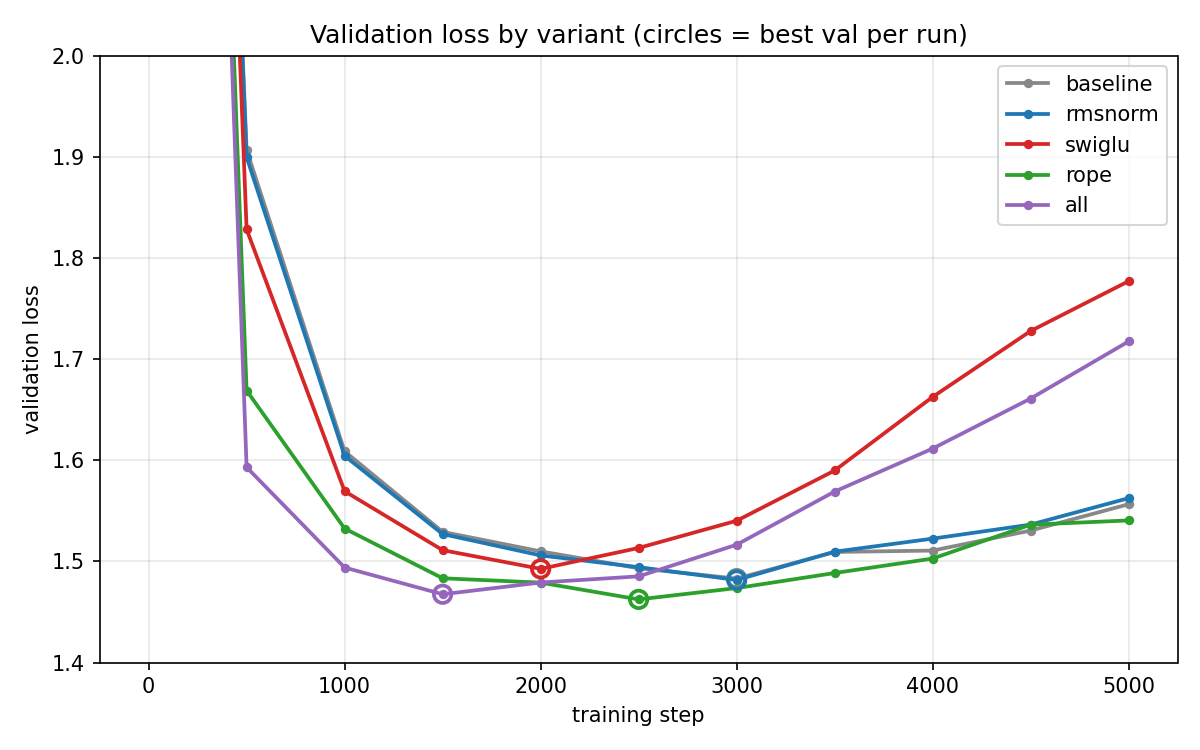
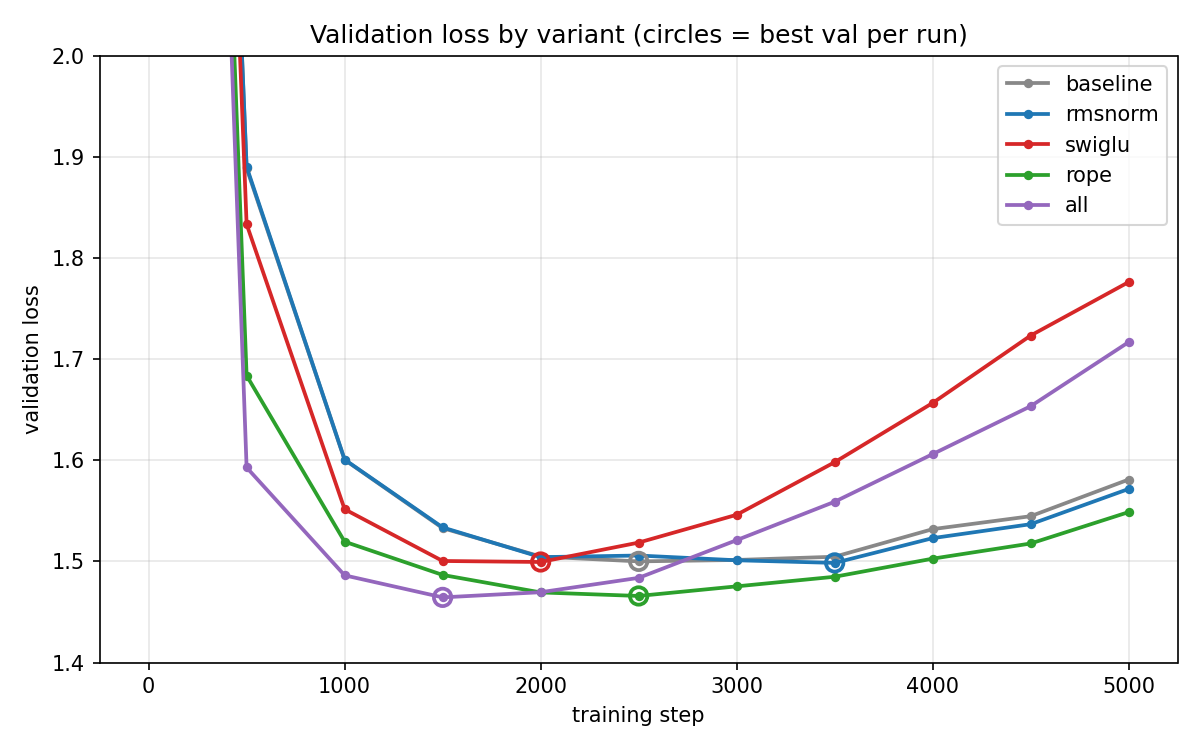
Fixed the bug related to seeding

diff --git a/train_ablations.py b/train_ablations.py
@@ -31,7 +31,7 @@ n_head = 6
 n_layer = 6
 dropout = 0.2
 SEED = 1337
-USE_COMPILE = True   # set False if torch.compile misbehaves on Windows
+USE_COMPILE = False
 RESULTS_FILE = 'results.md'
 # -------------------------------------------------------------------------------
 
@@ -60,22 +60,22 @@ train_data = data[:n]
 val_data = data[n:]
 
 
-def get_batch(split):
+def get_batch(split, g):
     d = train_data if split == 'train' else val_data
-    ix = torch.randint(len(d) - block_size, (batch_size,))
+    ix = torch.randint(len(d) - block_size, (batch_size,), generator=g)
     x = torch.stack([d[i:i + block_size] for i in ix])
     y = torch.stack([d[i + 1:i + block_size + 1] for i in ix])
     return x.to(device), y.to(device)
 
 
 @torch.no_grad()
-def estimate_loss(model):
+def estimate_loss(model, g):
     out = {}
     model.eval()
     for split in ['train', 'val']:
         losses = torch.zeros(eval_iters)
         for k in range(eval_iters):
-            X, Y = get_batch(split)
+            X, Y = get_batch(split, g)
             _, loss = model(X, Y)
             losses[k] = loss.item()
         out[split] = losses.mean().item()
@@ -87,12 +87,11 @@ def estimate_loss(model):
 def precompute_freqs_cis(head_dim, max_seq_len, base=10000.0):
     inv_freq = 1.0 / (base ** (torch.arange(0, head_dim, 2).float() / head_dim))
     t = torch.arange(max_seq_len).float()
-    freqs = torch.outer(t, inv_freq)                    # (T, head_dim/2)
-    return torch.polar(torch.ones_like(freqs), freqs)   # e^{i m theta}, complex64
+    freqs = torch.outer(t, inv_freq)                    
+    return torch.polar(torch.ones_like(freqs), freqs)   
 
 
 def apply_rope(x, freqs_cis):
-    # x: (B, T, head_dim); freqs_cis: (T, head_dim/2)
     xc = torch.view_as_complex(x.float().reshape(*x.shape[:-1], -1, 2))
     out = torch.view_as_real(xc * freqs_cis)
     return out.flatten(-2).type_as(x)
@@ -170,7 +169,7 @@ class FeedForward(nn.Module):
 class SwiGLUFFN(nn.Module):
     def __init__(self, n_embd):
         super().__init__()
-        hidden = int(2 / 3 * 4 * n_embd)  # param-matched to the 4x ReLU FFN
+        hidden = int(2 / 3 * 4 * n_embd)  
         self.w_gate = nn.Linear(n_embd, hidden, bias=False)
         self.w_up = nn.Linear(n_embd, hidden, bias=False)
         self.w_down = nn.Linear(hidden, n_embd, bias=False)
@@ -241,8 +240,9 @@ def log(msg):
 
 
 def train_one(name, cfg):
-    # identical seed per run: same init RNG stream and same batch order
     torch.manual_seed(SEED)
+    data_gen=torch.Generator()
+    data_gen.manual_seed(SEED)
     if USE_COMPILE:
         torch._dynamo.reset()
 
@@ -265,11 +265,11 @@ def train_one(name, cfg):
     train_time = 0.0
     for it in range(max_iters):
         if it % eval_interval == 0 or it == max_iters - 1:
-            losses = estimate_loss(model)
+            losses = estimate_loss(model, data_gen)
             best_val = min(best_val, losses['val'])
             log(f"  step {it}: train {losses['train']:.4f}, val {losses['val']:.4f}")
 
-        xb, yb = get_batch('train')
+        xb, yb = get_batch('train', data_gen)
         if device == 'cuda':
             torch.cuda.synchronize()
         t0 = time.perf_counter()
@@ -281,7 +281,7 @@ def train_one(name, cfg):
             torch.cuda.synchronize()
         train_time += time.perf_counter() - t0
 
-    final = estimate_loss(model)
+    final = estimate_loss(model, data_gen)
     best_val = min(best_val, final['val'])
     tok_per_s = max_iters * batch_size * block_size / train_time
 
@@ -301,8 +301,6 @@ def main():
     t_start = time.time()
     for name, cfg in ABLATIONS:
         summaries.append(train_one(name, cfg))
-
-        # rewrite the summary table after every run, so a crash loses nothing
         table = ['\n## Summary (so far)\n',
                  '| variant | params (M) | final train | final val | best val | tok/s | train min |',
                  '|---|---|---|---|---|---|---|']

diff --git a/README.md b/README.md
@@ -1,39 +1,33 @@
 # Modernizing nanoGPT: GPT-2-style → Llama-style, with ablations
 
 Karpathy's [nanoGPT](https://github.com/karpathy/ng-video-lecture) (video-lecture version, ~10.7M params),
-upgraded component-by-component to the modern Llama-style stack — **RMSNorm**, **SwiGLU**, and **RoPE** —
-with a controlled ablation of each change on character-level Shakespeare.
+upgraded component-by-component to the modern Llama-style stack — **RMSNorm**, **SwiGLU**, and **RoPE** — with a controlled ablation of each change on character-level Shakespeare.
 
 **Headline result:** the fully modernized model reaches a better validation loss than the baseline's
-best in roughly **half the training steps** (step ~1500 vs. ~3000). The most interesting single finding
-is negative: **SwiGLU optimizes faster but overfits the 1MB dataset**, ending with the worst validation
-loss of all variants — a small-scale reproduction of why frontier-scale architecture wins don't
-automatically transfer downward.
+best in roughly **half the training steps** (step ~1000 vs. ~2500). The most interesting single finding
+is negative: **SwiGLU optimizes faster but overfits the 1MB dataset**, ending with the worst validation loss of all variants — a small-scale reproduction of why frontier-scale architecture wins don't automatically transfer downward.
 
 ## Results
 
 5000 iters, batch 64, context 256, lr 3e-4, single seed (1337), identical batch order across runs.
 Hardware: RTX 5060 (8GB, Blackwell — requires PyTorch ≥ 2.7 / CUDA 12.8).
 
-| variant  | params (M) | final train | final val | **best val** | tok/s   | train min |
-|----------|------------|-------------|-----------|--------------|---------|-----------|
-| baseline | 10.789     | 0.8595      | 1.5669    | 1.4831       | 119,196 | 11.5      |
-| rmsnorm  | 10.784     | 0.8655      | 1.5690    | 1.4817       | 120,176 | 11.4      |
-| swiglu   | 10.777     | 0.6212      | 1.7707    | 1.4927       | 117,827 | 11.6      |
-| rope     | 10.691     | 0.8403      | 1.5424    | **1.4625**   | 117,265 | 11.6      |
-| all      | 10.674     | 0.6358      | 1.7256    | 1.4676       | 116,622 | 11.7      |
+| variant  | params (M) | **best val** | tok/s  | train min |
+| -------- | ---------- | ------------ | ------ | --------- |
+| baseline | 10.789     | 1.5001       | 98,523 | 13.9      |
+| rmsnorm  | 10.784     | 1.4986       | 88,982 | 15.3      |
+| swiglu   | 10.777     | 1.4995       | 93,631 | 14.6      |
+| rope     | 10.691     | 1.4659       | 97,553 | 14.0      |
+| all      | 10.674     | **1.4645**   | 84,637 | 16.1      |
 
 ![validation loss curves](results/val_curves.png)
 
 Ranking by **best val** (the early-stopping value — all configs overfit by iter 5000):
 
-- **RoPE** is the clear winner, and dominates the *entire trajectory*, not just the endpoint
-  (val 1.67 vs. 1.91 at step 500). This trajectory-wide dominance is an indicator that **RoPE**'s performance is better (and not a random seed effect) due to its embedding strategy which takes into account the relative positions from the very start. 
-- **RMSNorm** is a quality wash (Δ 0.0014 = noise) with the best throughput — exactly its sales pitch.
-- **SwiGLU** has the lowest train loss at every checkpoint from step 500 onward, and converts that
-  expressivity into memorization: val climbs from step 2500. This indicates that **SwiGLU** fits to the data faster, and at this scale, it starts to overfit. 
-- Throughput is flat across variants (~3% spread), empirically confirming the parameter/FLOP
-  matching (see below).
+- **RoPE is the single most valuable change.** Both RoPE-containing variants (`rope` and `all`) break from the pack at step 500 (1.68 and 1.59 vs ~1.89) and take the top two best-val spots — `all` 1.4645 and `rope` 1.4659, tied within noise (Δ0.0014) and ~0.033 clear of the baseline/rmsnorm/swiglu cluster (all ~1.499–1.500). That ~0.033 gap is the only effect that clears the single-seed noise floor: RoPE encodes relative position from the first step instead of having to learn it.
+- **RMSNorm** is a quality wash (best-val Δ0.0015 = noise) and, counter to its usual pitch, ~10% _slower_ here: the hand-rolled version is several eager ops (pow/mean/rsqrt/mul) racing PyTorch's single fused LayerNorm kernel. Its FLOP advantage only becomes speed once fused or at scale. It looked fastest in my earlier compiled run — that was a fusion artifact.
+- SwiGLU (and the SwiGLU-containing `all`) drive train loss down hardest — to ~0.61 by iter 5000 — while val climbs back to ~1.78 after its early minimum: pure memorization on a 1MB corpus.
+- Throughput is not flat in eager mode (~16% spread). The param/FLOP matching is still exact, but op count and kernel fusion are not — so wall-clock separates the variants. Baseline, built entirely from fused PyTorch builtins (`nn.LayerNorm`, `nn.Linear`+ReLU), is fastest; each modernization adds eager overhead that `torch.compile` would otherwise hide.
 - Caveat: single seed; differences under ~0.01–0.02 val loss are noise. The RoPE result survives
   this bar via trajectory dominance; rmsnorm-vs-baseline does not.
 
@@ -41,7 +35,7 @@ Ranking by **best val** (the early-stopping value — all configs overfit by ite
 
 ### RMSNorm (replaces LayerNorm) — [Zhang & Sennrich 2019](https://arxiv.org/abs/1910.07467)
 Drops mean-centering and the bias; keeps only RMS scaling and a learnable gain.
-Same normalization axes as LayerNorm — the difference is the *statistic*, not the geometry. The computation overhead is decreased, leading to a marginal throughput gain (~1% here; the effect matters more at scale), and the stabilization of the gradients is maintained.
+Same normalization axes as LayerNorm — the difference is the *statistic*, not the geometry. RMSNorm does strictly less arithmetic than LayerNorm (no mean-centering, no bias), but as separate eager ops (pow/mean/rsqrt/mul) it runs ~10% slower here than PyTorch's single fused LayerNorm kernel — the FLOP saving only becomes wall-clock once the ops are fused (`torch.compile`) or at scale. Gradient stabilization is unchanged.
 
 
 ### SwiGLU (replaces the ReLU MLP) — [Shazeer 2020](https://arxiv.org/abs/2002.05202)
@@ -52,7 +46,7 @@ choice bundled with the gating, worth ~0.1% of parameters. Assuming that the fee
 
 ### RoPE (replaces learned positional embeddings) — [Su et al. 2021](https://arxiv.org/abs/2104.09864)
 Rotates q and k per-head, per-layer (never v), by position-dependent angles so attention scores
-depend only on *relative* position: `(R_m q)·(R_n k) = qᵀ R_{n−m} k`. Implemented via the complex formulation (`torch.polar` / `view_as_complex`). Deletes the `block_size × n_embd` PE table (−98K params — the bulk of the parameter drop in the table above). Attention scores decay with relative distance ('long-term decay'), biasing the model toward nearby context — structure that learned absolute embeddings would have to discover from data. Although the number of parameters is smaller, the per-layer rotation adds a small elementwise overhead (~2% throughput in the table).
+depend only on *relative* position: `(R_m q)·(R_n k) = qᵀ R_{n−m} k`. Implemented via the complex formulation (`torch.polar` / `view_as_complex`). Deletes the `block_size × n_embd` PE table (−98K params — the bulk of the parameter drop in the table above). Attention scores decay with relative distance ('long-term decay'), biasing the model toward nearby context — structure that learned absolute embeddings would have to discover from data. Although the number of parameters is smaller, the per-layer rotation adds a small elementwise overhead (~1% throughput in the table).
 
 
 ## Reproduce
@@ -60,26 +54,27 @@ depend only on *relative* position: `(R_m q)·(R_n k) = qᵀ R_{n−m} k`. Imple
 ```bash
 wget https://raw.githubusercontent.com/karpathy/char-rnn/master/data/tinyshakespeare/input.txt
 pip install -r requirements.txt
-python train_ablations.py        # trains all 5 variants serially, ~80 min on an RTX 5060
+python train_ablations.py        # trains all 5 variants serially, ~93 min on an RTX 5060
+# `USE_COMPILE = False` by default; these are eager runs
 ```
 
 Results stream into `results.md` (crash-safe: the summary table is rewritten after every
 completed run). Checkpoints for all five variants are on [Hugging Face](https://huggingface.co/Ridwan-1642/nanogpt-modernization-ckpts).
 
-Windows note: `torch.compile` may fail (Triton support); set `USE_COMPILE = False` for eager mode.
 
 ## Bugs I hit (and how I found them)
-1. BatchNorm fossils in RMSNorm: As I created my own RMSnorm class, I made mistakes such as using a momentum parameter, a running mean, a bias parameter, using plain tensors instead of the nn.Parameter. After going through the actual paper, the paper made clear why momentum, running statistics, and bias don't apply: RMSNorm computes per-sample statistics, so there's nothing to track across batches. Wrapping in nn.Parameter is necessary for tracking the gradients together.
+1. BatchNorm fossils in RMSNorm: As I created my own RMSnorm class, I made mistakes such as using a momentum parameter, a running mean, a bias parameter, using plain tensors instead of the `nn.Parameter`. After going through the actual paper, the paper made clear why momentum, running statistics, and bias don't apply: RMSNorm computes per-sample statistics, so there's nothing to track across batches. Wrapping in `nn.Parameter` is necessary for tracking the gradients together.
 2. **SwiGLU parameter counts:** Since **SwiGLUFFN** uses 3 weight matrices instead of the usual 2, a silent issue that I ran into was keeping the layer-sizes the same, resulting in more parameters for **SwiGLUFFN**. Comparing models with a variation in parameter-size is faulty, hence I precisely calculated the required size of the hidden layer.
 3. Bias-dimension swap in my parameter-count derivation: Linear bias lives in the OUTPUT space; initially I made the mistake by assuming the bias lives in the input space, which flipped my conclusion. This was caught when I checked the actual parameter counts.
 4. RoPE frequency buffer not sliced to sequence length: This bug is invisible at T == block_size, but crashes at generation time. Caught by forwarding a T=7 batch.
 5. eps placed outside the sqrt in RMSNorm: This runs fine, but is a different function than every reference implementation. This is a silent bug, caught only by line-by-line comparison against the reference implementation.
+6. **Batch order was silently confounded with architecture.** I seeded once with `torch.manual_seed(SEED)` and then built the model — but variants consume different amounts of initial RNG (RoPE skips the PE table, SwiGLU has three weight matrices not two), so by the first `get_batch` the global RNG state, and the batch sequence, differed per variant. The "identical batch order" claim was false; part of what I'd labeled seed noise was uncontrolled data-order variance. Fixed by giving the data loader its own `torch.Generator`, seeded independently and created before model construction. Caught by reasoning about RNG consumption.
+7. **"Throughput is flat" was a `torch.compile` artifact.** The original runs compiled the model, which fused my hand-rolled RMSNorm/SwiGLU/RoPE ops and flattened wall-clock to a ~3% spread — leading me to conclude throughput was FLOP-bound and matched. Removing compile for honest, warmup-free timing widened the spread to ~16% and flipped RMSNorm from fastest to ~10% slower than baseline. Param/FLOP-matched is not throughput-matched once I stopped fusing; compiled throughput numbers measure the compiler as much as the architecture.
 
 ## Future work
 
 - Dense (per-100-step) loss logging to locate the induction-head phase transition
-  ([Olsson et al. 2022](https://arxiv.org/abs/2209.11895)) per variant — do positional
-  encodings shift *when* induction heads form? Checkpoints already saved for this.
+  ([Olsson et al. 2022](https://arxiv.org/abs/2209.11895)) per variant — do positional encodings shift *when* induction heads form? Checkpoints already saved for this.
 - Trainable RoPE frequencies (θ as parameters) as a sixth ablation row.
 - Fused multi-head attention via `F.scaled_dot_product_attention` + before/after kernel profile.
 

diff --git a/results/results.md b/results/results.md
@@ -2,108 +2,108 @@
 device=cuda, seed=1337, iters=5000, batch=64, block=256, lr=0.0003
 
 ### run: baseline | cfg={'rms': False, 'swiglu': False, 'rope': False} | params=10.789M
-  step 0: train 4.2221, val 4.2306
-  step 500: train 1.7491, val 1.9071
-  step 1000: train 1.3914, val 1.6089
-  step 1500: train 1.2707, val 1.5293
-  step 2000: train 1.1892, val 1.5100
-  step 2500: train 1.1204, val 1.4933
-  step 3000: train 1.0706, val 1.4831
-  step 3500: train 1.0193, val 1.5094
-  step 4000: train 0.9610, val 1.5108
-  step 4500: train 0.9092, val 1.5306
-  step 4999: train 0.8583, val 1.5566
+  step 0: train 4.2223, val 4.2306
+  step 500: train 1.7332, val 1.8890
+  step 1000: train 1.3899, val 1.6006
+  step 1500: train 1.2678, val 1.5330
+  step 2000: train 1.1896, val 1.5049
+  step 2500: train 1.1251, val 1.5001
+  step 3000: train 1.0736, val 1.5015
+  step 3500: train 1.0217, val 1.5047
+  step 4000: train 0.9668, val 1.5320
+  step 4500: train 0.9126, val 1.5448
+  step 4999: train 0.8592, val 1.5810
 
 ## Summary (so far)
 
 | variant | params (M) | final train | final val | best val | tok/s | train min |
 |---|---|---|---|---|---|---|
-| baseline | 10.789 | 0.8595 | 1.5669 | 1.4831 | 119,196 | 11.5 |
+| baseline | 10.789 | 0.8593 | 1.5793 | 1.5001 | 98,523 | 13.9 |
 
 ### run: rmsnorm | cfg={'rms': True, 'swiglu': False, 'rope': False} | params=10.784M
-  step 0: train 4.2202, val 4.2283
-  step 500: train 1.7450, val 1.8999
-  step 1000: train 1.3918, val 1.6045
-  step 1500: train 1.2705, val 1.5271
-  step 2000: train 1.1918, val 1.5060
-  step 2500: train 1.1245, val 1.4944
-  step 3000: train 1.0737, val 1.4817
-  step 3500: train 1.0273, val 1.5097
-  step 4000: train 0.9662, val 1.5226
-  step 4500: train 0.9211, val 1.5365
-  step 4999: train 0.8658, val 1.5626
+  step 0: train 4.2204, val 4.2283
+  step 500: train 1.7354, val 1.8904
+  step 1000: train 1.3873, val 1.6008
+  step 1500: train 1.2682, val 1.5337
+  step 2000: train 1.1872, val 1.5043
+  step 2500: train 1.1263, val 1.5059
+  step 3000: train 1.0732, val 1.5012
+  step 3500: train 1.0251, val 1.4986
+  step 4000: train 0.9769, val 1.5231
+  step 4500: train 0.9186, val 1.5369
+  step 4999: train 0.8658, val 1.5717
 
 ## Summary (so far)
 
 | variant | params (M) | final train | final val | best val | tok/s | train min |
 |---|---|---|---|---|---|---|
-| baseline | 10.789 | 0.8595 | 1.5669 | 1.4831 | 119,196 | 11.5 |
-| rmsnorm | 10.784 | 0.8655 | 1.5690 | 1.4817 | 120,176 | 11.4 |
+| baseline | 10.789 | 0.8593 | 1.5793 | 1.5001 | 98,523 | 13.9 |
+| rmsnorm | 10.784 | 0.8647 | 1.5645 | 1.4986 | 88,982 | 15.3 |
 
 ### run: swiglu | cfg={'rms': False, 'swiglu': True, 'rope': False} | params=10.777M
-  step 0: train 4.3154, val 4.3115
-  step 500: train 1.6657, val 1.8285
-  step 1000: train 1.3191, val 1.5695
-  step 1500: train 1.1900, val 1.5112
-  step 2000: train 1.1088, val 1.4927
-  step 2500: train 1.0343, val 1.5134
-  step 3000: train 0.9452, val 1.5403
-  step 3500: train 0.8631, val 1.5900
-  step 4000: train 0.7850, val 1.6628
-  step 4500: train 0.7049, val 1.7280
-  step 4999: train 0.6239, val 1.7772
+  step 0: train 4.3150, val 4.3111
+  step 500: train 1.6526, val 1.8336
+  step 1000: train 1.3140, val 1.5517
+  step 1500: train 1.1938, val 1.5005
+  step 2000: train 1.1051, val 1.4995
+  step 2500: train 1.0247, val 1.5187
+  step 3000: train 0.9418, val 1.5462
+  step 3500: train 0.8657, val 1.5982
+  step 4000: train 0.7711, val 1.6568
+  step 4500: train 0.6872, val 1.7235
+  step 4999: train 0.6131, val 1.7763
 
 ## Summary (so far)
 
 | variant | params (M) | final train | final val | best val | tok/s | train min |
 |---|---|---|---|---|---|---|
-| baseline | 10.789 | 0.8595 | 1.5669 | 1.4831 | 119,196 | 11.5 |
-| rmsnorm | 10.784 | 0.8655 | 1.5690 | 1.4817 | 120,176 | 11.4 |
-| swiglu | 10.777 | 0.6212 | 1.7707 | 1.4927 | 117,827 | 11.6 |
+| baseline | 10.789 | 0.8593 | 1.5793 | 1.5001 | 98,523 | 13.9 |
+| rmsnorm | 10.784 | 0.8647 | 1.5645 | 1.4986 | 88,982 | 15.3 |
+| swiglu | 10.777 | 0.6091 | 1.7772 | 1.4995 | 93,631 | 14.6 |
 
 ### run: rope | cfg={'rms': False, 'swiglu': False, 'rope': True} | params=10.691M
-  step 0: train 4.2202, val 4.2194
-  step 500: train 1.4820, val 1.6691
-  step 1000: train 1.2985, val 1.5326
-  step 1500: train 1.2079, val 1.4834
-  step 2000: train 1.1440, val 1.4791
-  step 2500: train 1.0880, val 1.4625
-  step 3000: train 1.0365, val 1.4737
-  step 3500: train 0.9828, val 1.4886
-  step 4000: train 0.9343, val 1.5029
-  step 4500: train 0.8828, val 1.5364
-  step 4999: train 0.8379, val 1.5406
+  step 0: train 4.2200, val 4.2186
+  step 500: train 1.4819, val 1.6839
+  step 1000: train 1.2884, val 1.5196
+  step 1500: train 1.2052, val 1.4867
+  step 2000: train 1.1366, val 1.4694
+  step 2500: train 1.0796, val 1.4659
+  step 3000: train 1.0297, val 1.4754
+  step 3500: train 0.9806, val 1.4849
+  step 4000: train 0.9289, val 1.5028
+  step 4500: train 0.8764, val 1.5178
+  step 4999: train 0.8238, val 1.5488
 
 ## Summary (so far)
 
 | variant | params (M) | final train | final val | best val | tok/s | train min |
 |---|---|---|---|---|---|---|
-| baseline | 10.789 | 0.8595 | 1.5669 | 1.4831 | 119,196 | 11.5 |
-| rmsnorm | 10.784 | 0.8655 | 1.5690 | 1.4817 | 120,176 | 11.4 |
-| swiglu | 10.777 | 0.6212 | 1.7707 | 1.4927 | 117,827 | 11.6 |
-| rope | 10.691 | 0.8403 | 1.5424 | 1.4625 | 117,265 | 11.6 |
+| baseline | 10.789 | 0.8593 | 1.5793 | 1.5001 | 98,523 | 13.9 |
+| rmsnorm | 10.784 | 0.8647 | 1.5645 | 1.4986 | 88,982 | 15.3 |
+| swiglu | 10.777 | 0.6091 | 1.7772 | 1.4995 | 93,631 | 14.6 |
+| rope | 10.691 | 0.8246 | 1.5536 | 1.4659 | 97,553 | 14.0 |
 
 ### run: all | cfg={'rms': True, 'swiglu': True, 'rope': True} | params=10.674M
-  step 0: train 4.2623, val 4.2633
-  step 500: train 1.3917, val 1.5932
-  step 1000: train 1.2312, val 1.4940
-  step 1500: train 1.1367, val 1.4676
-  step 2000: train 1.0600, val 1.4792
-  step 2500: train 0.9878, val 1.4853
-  step 3000: train 0.9184, val 1.5166
-  step 3500: train 0.8375, val 1.5692
-  step 4000: train 0.7696, val 1.6117
-  step 4500: train 0.6974, val 1.6612
-  step 4999: train 0.6395, val 1.7176
+  step 0: train 4.2632, val 4.2615
+  step 500: train 1.3876, val 1.5930
+  step 1000: train 1.2223, val 1.4863
+  step 1500: train 1.1320, val 1.4645
+  step 2000: train 1.0539, val 1.4696
+  step 2500: train 0.9809, val 1.4838
+  step 3000: train 0.9091, val 1.5211
+  step 3500: train 0.8381, val 1.5591
+  step 4000: train 0.7633, val 1.6062
+  step 4500: train 0.6923, val 1.6536
+  step 4999: train 0.6248, val 1.7169
 
 ## Summary (so far)
 
 | variant | params (M) | final train | final val | best val | tok/s | train min |
 |---|---|---|---|---|---|---|
-| baseline | 10.789 | 0.8595 | 1.5669 | 1.4831 | 119,196 | 11.5 |
-| rmsnorm | 10.784 | 0.8655 | 1.5690 | 1.4817 | 120,176 | 11.4 |
-| swiglu | 10.777 | 0.6212 | 1.7707 | 1.4927 | 117,827 | 11.6 |
-| rope | 10.691 | 0.8403 | 1.5424 | 1.4625 | 117,265 | 11.6 |
-| all | 10.674 | 0.6358 | 1.7256 | 1.4676 | 116,622 | 11.7 |
+| baseline | 10.789 | 0.8593 | 1.5793 | 1.5001 | 98,523 | 13.9 |
+| rmsnorm | 10.784 | 0.8647 | 1.5645 | 1.4986 | 88,982 | 15.3 |
+| swiglu | 10.777 | 0.6091 | 1.7772 | 1.4995 | 93,631 | 14.6 |
+| rope | 10.691 | 0.8246 | 1.5536 | 1.4659 | 97,553 | 14.0 |
+| all | 10.674 | 0.6219 | 1.7239 | 1.4645 | 84,637 | 16.1 |
 
-All runs done in 77.7 min total.
+All runs done in 92.7 min total.
